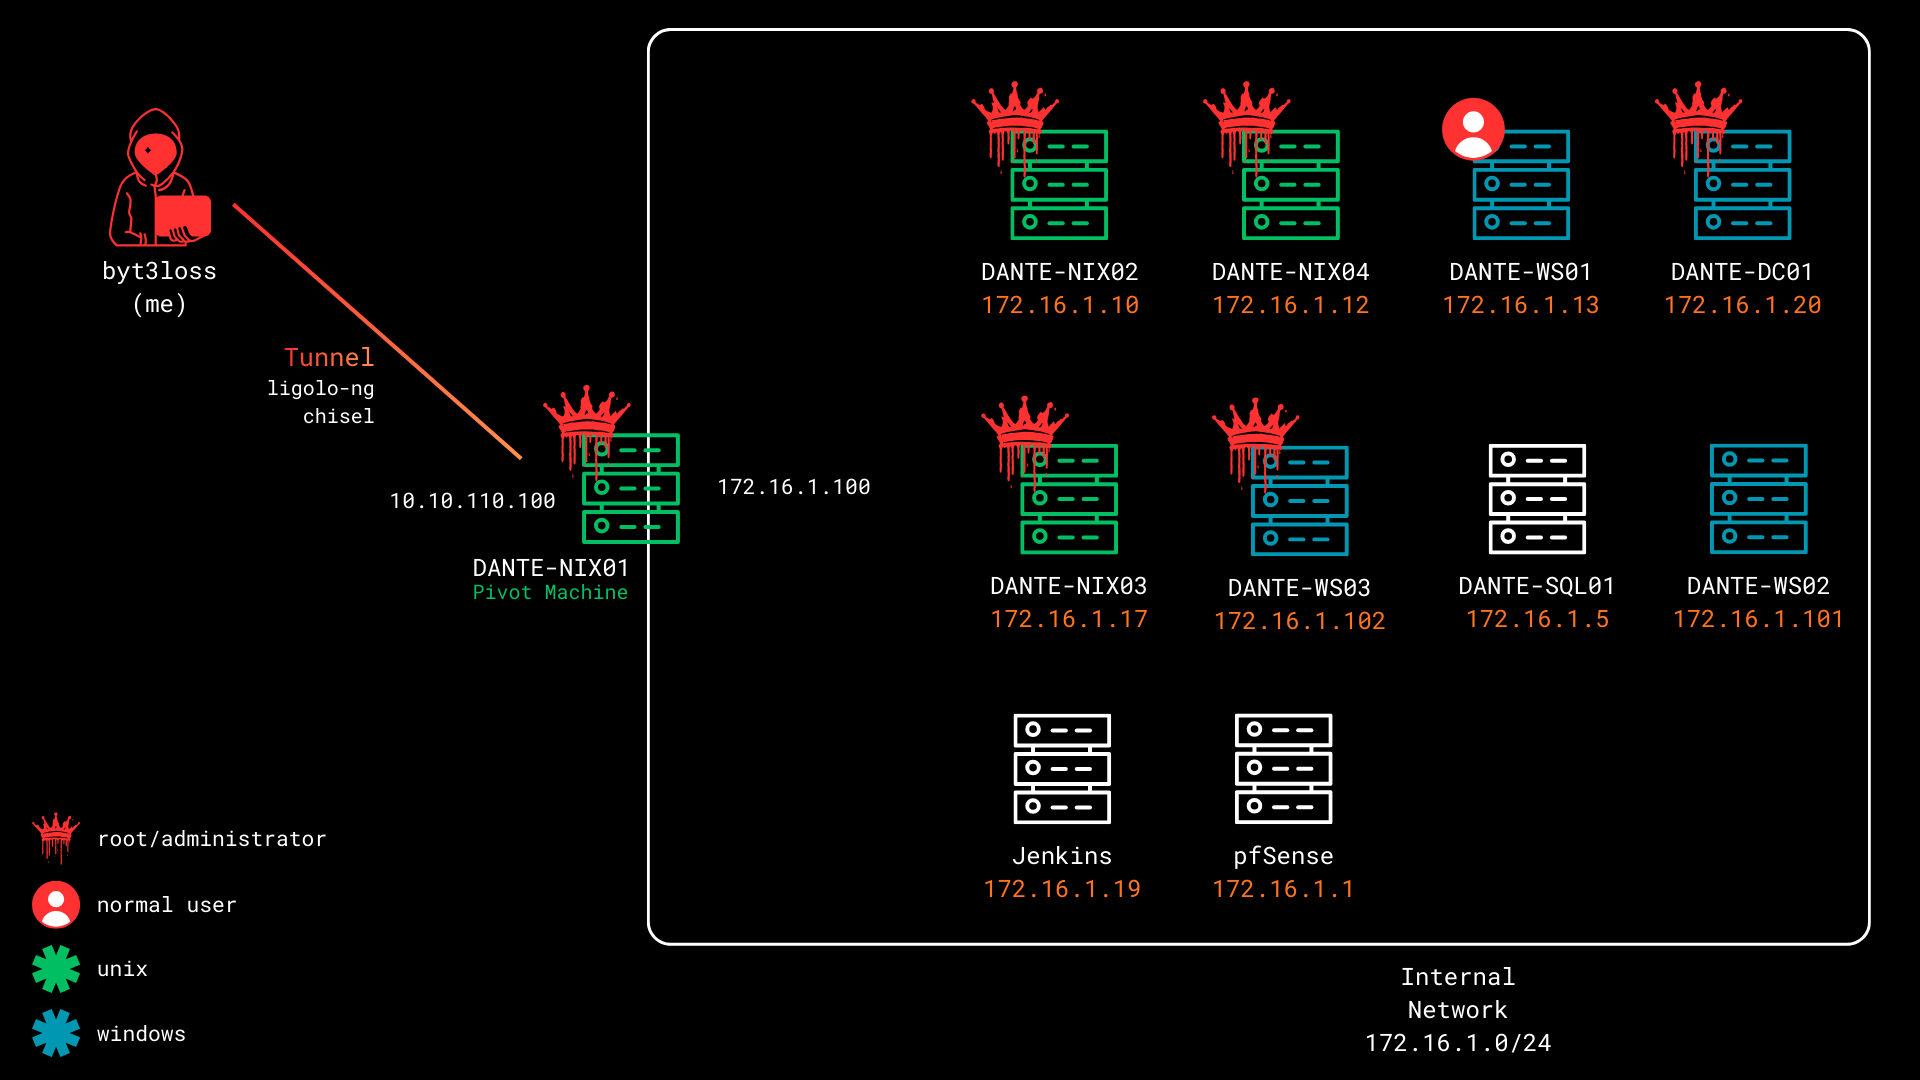
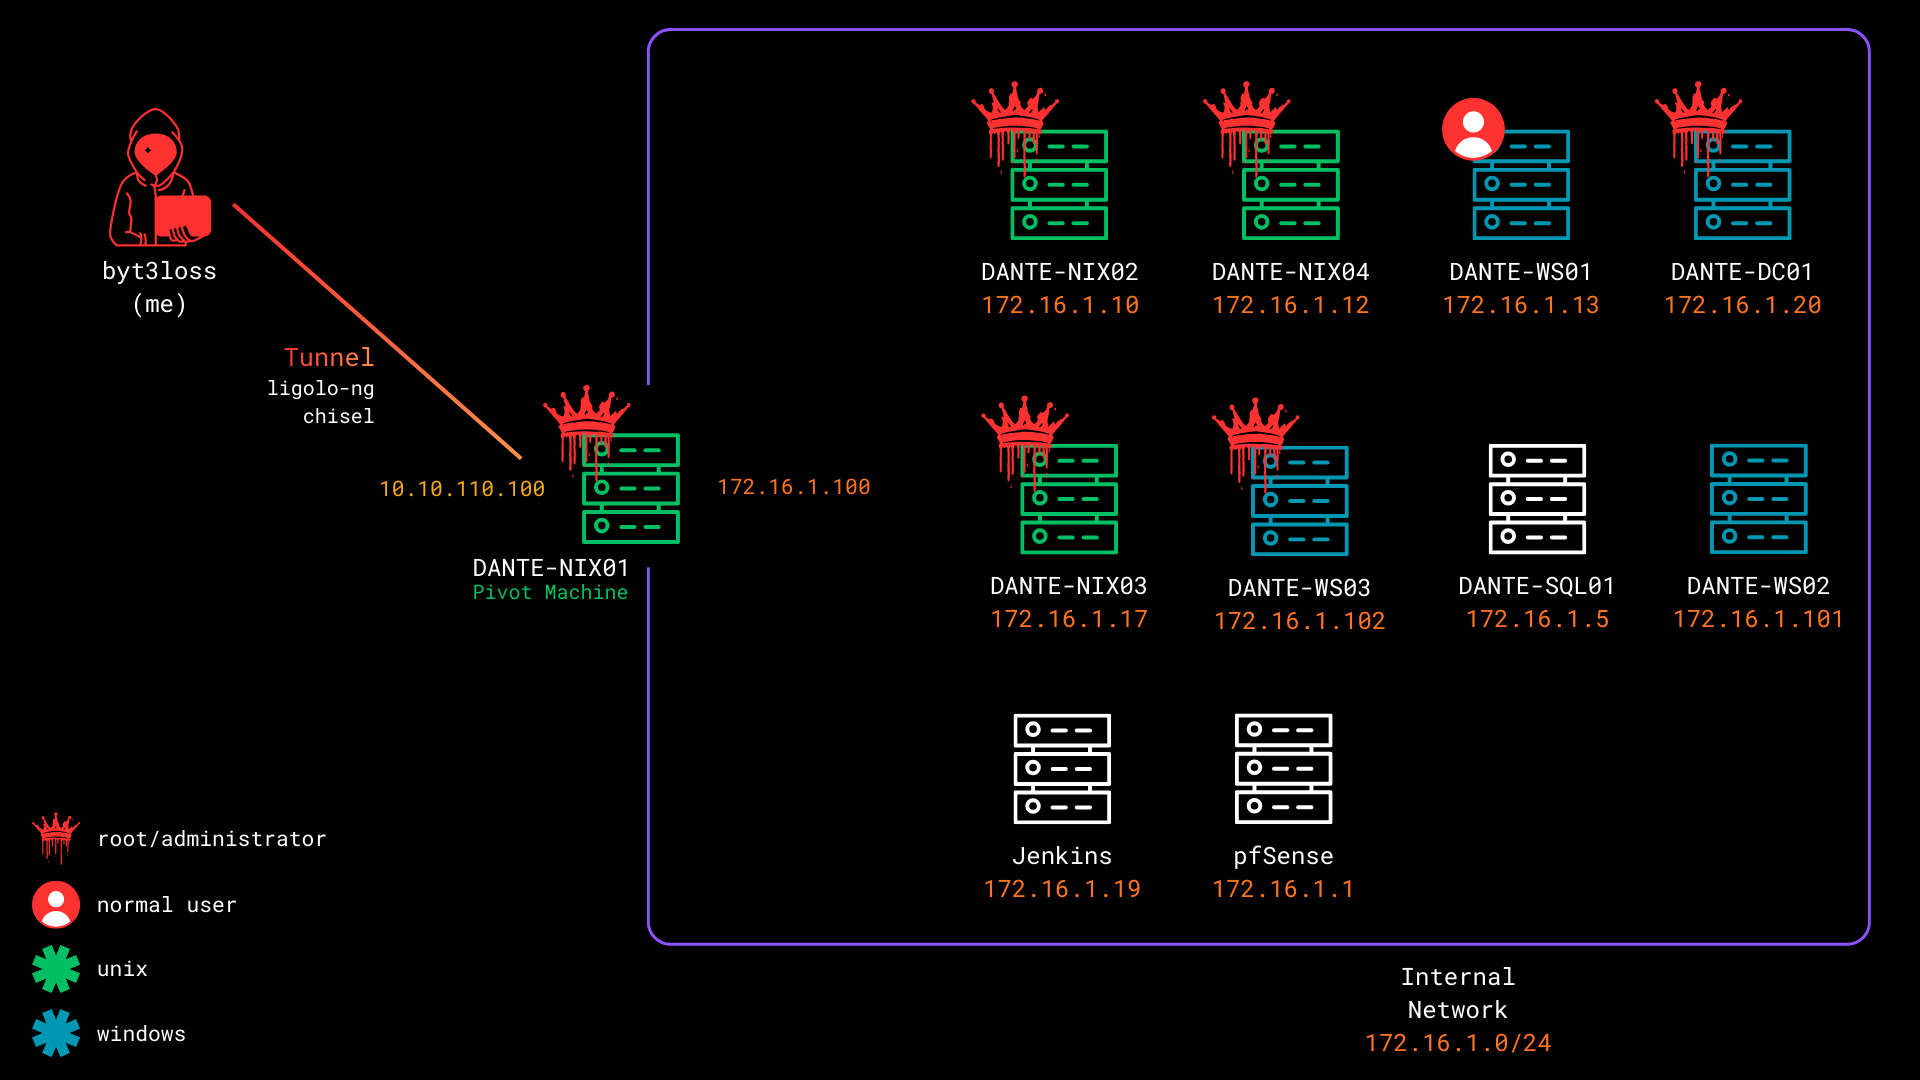
Update htb dante post

diff --git a/2026-02-05-htb-dante.md b/2026-02-05-htb-dante.md
@@ -1,7 +1,7 @@
 ---
 layout: post
 title: HTB ProLabs - Dante
-date: 2026-01-25
+date: 2026-02-05
 categories: [redteam, ctf]
 tags: []
 ---
